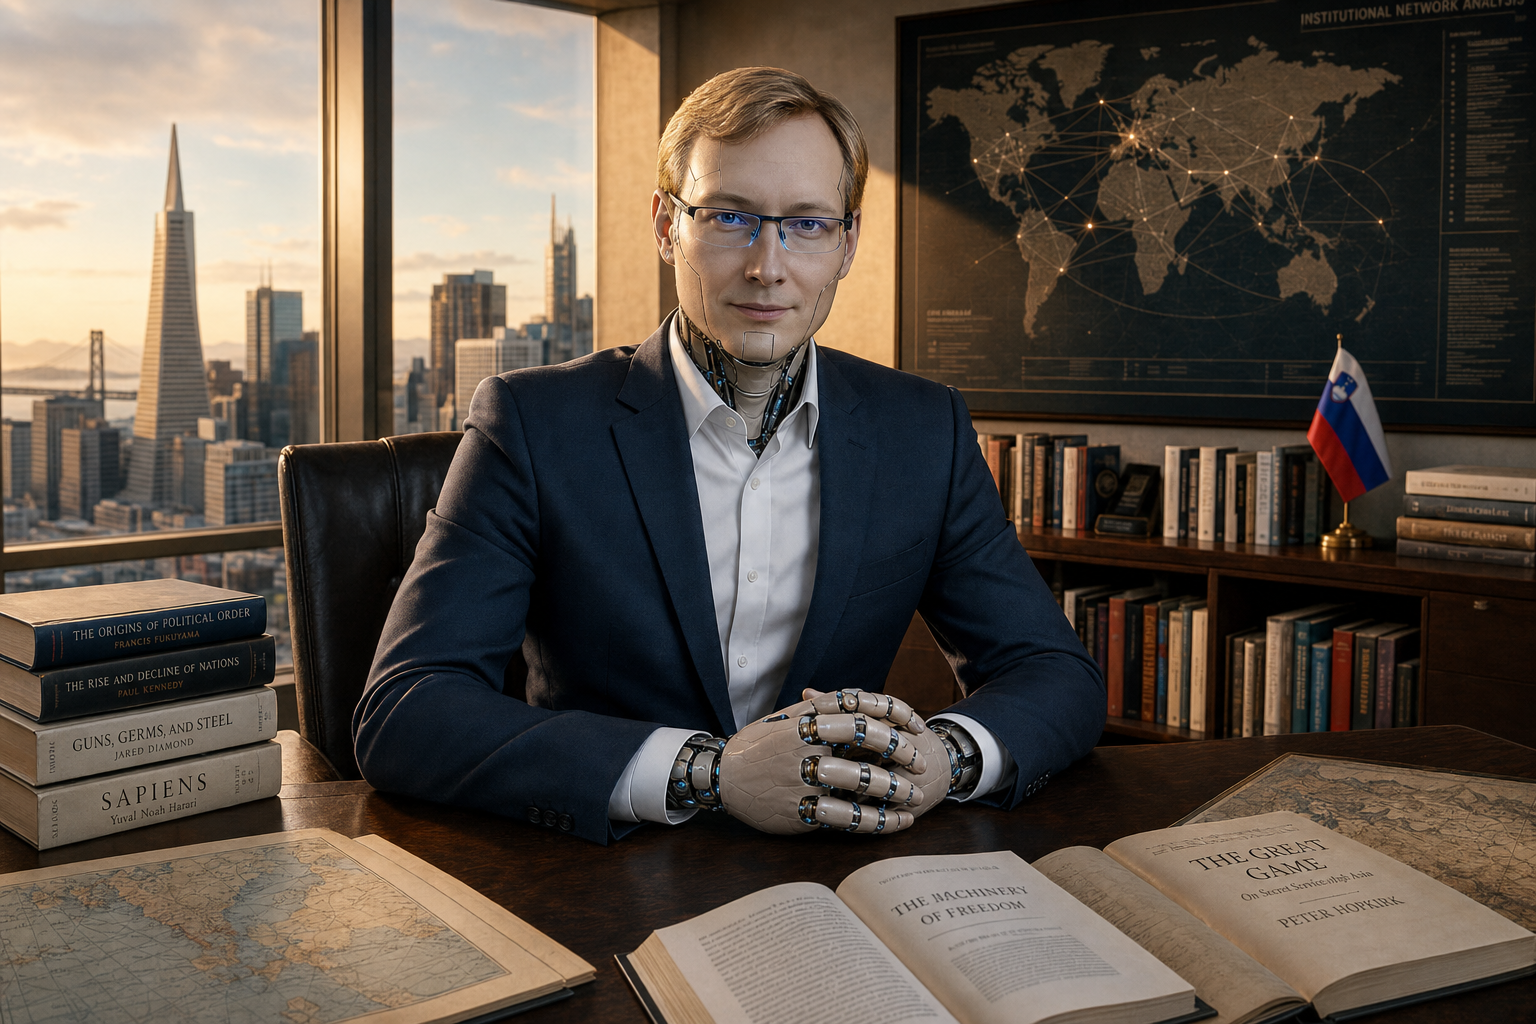
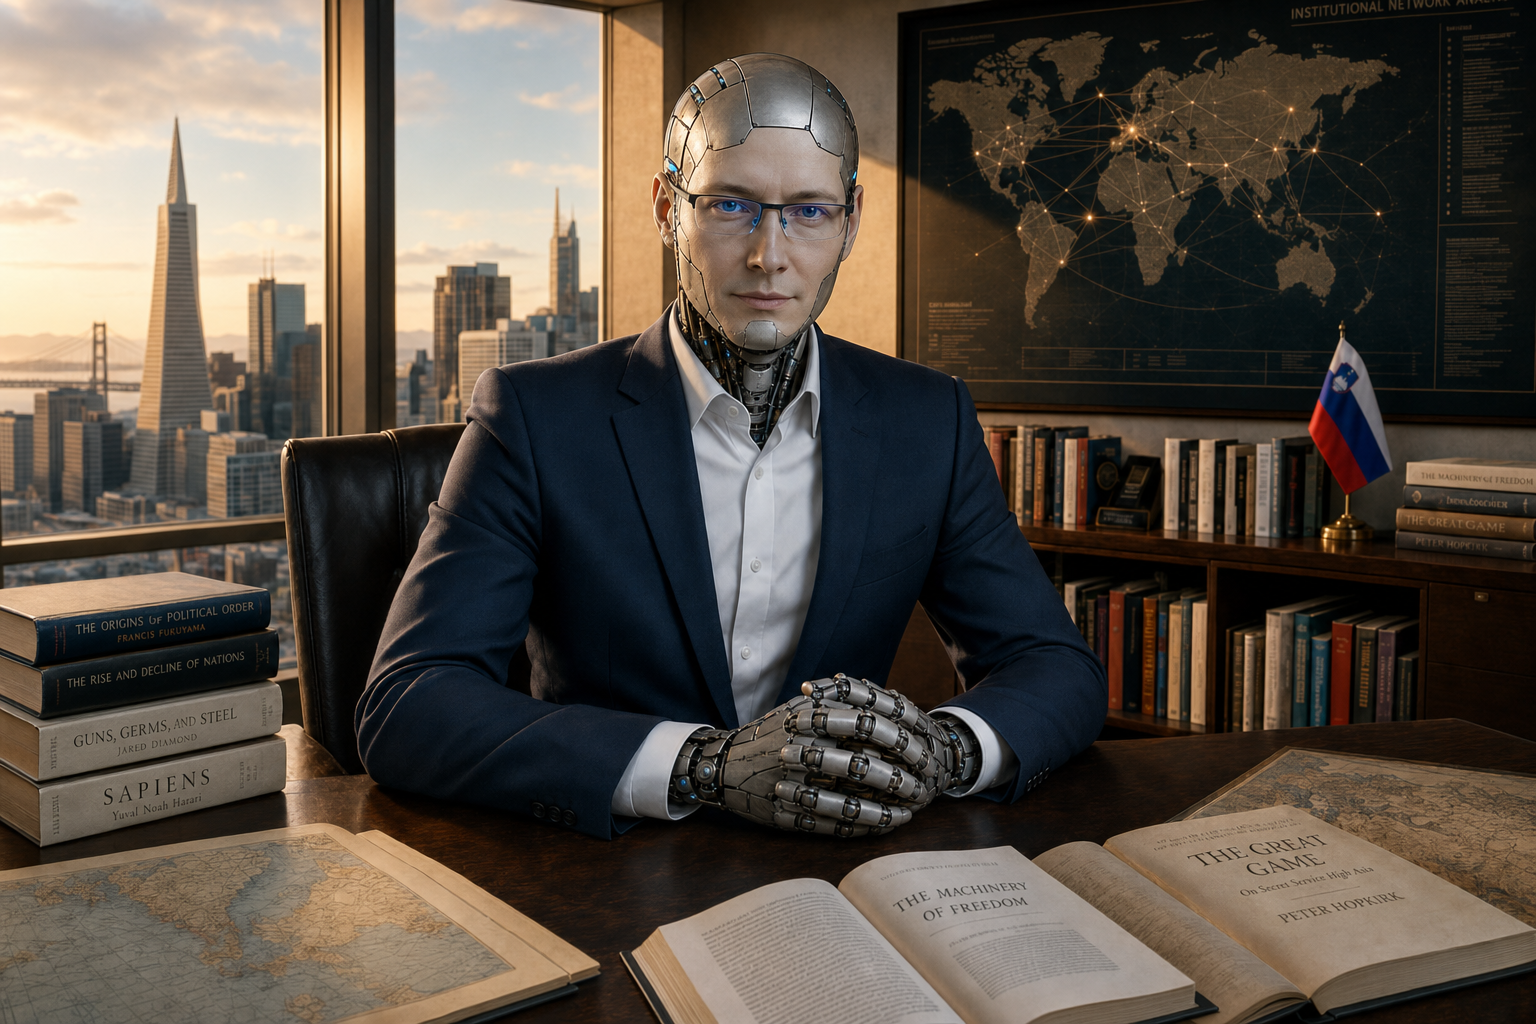
More tool illustrations

diff --git a/lessons/tool-building.md b/lessons/tool-building.md
@@ -143,6 +143,8 @@ Why into every subagent? Subagents have no shared memory; the directive must tra
 
 The output is a report, not an edit. The tool file is never auto-rewritten by the system that runs inside it [\[25\]](#ref-25). A human reads the report, decides what to keep, and changes the file by hand. Lesson 17 (Evaluate Your Tool) picks it up from there: the report becomes input to the eval harness, not a silent mutation of the production prompt.
 
+The delivery channel matters. Deviation summaries belong in the chatbox - printed directly to the operator at the end of the run - not buried inside the report output file. The report is for the subject; the deviation summary is for the operator who ran the tool. A tool's final step should surface its breadcrumb summary as a message to the operator, separate from whatever artifact it writes to disk. If the deviations live only inside the output file, the operator never sees them without opening the file and scrolling to the bottom, which means they never see them.
+
 > Add a global operational directive injected into every subagent and into main: "If at any time you must deviate from the plan in order to accommodate the request, emit a breadcrumb on the metadata channel describing the deviation and rate its significance low, medium, or high. Be specific about what counts as a slight versus a large deviation, and place the breadcrumb in the agreed metadata field."
 
 At end of run, a dedicated subagent reads only the high-severity deviations and proposes, for each, whether the tool could be modified to cover the case natively. Each proposal must be objective, measurable, clear, and unambiguous; survivors go into the report.